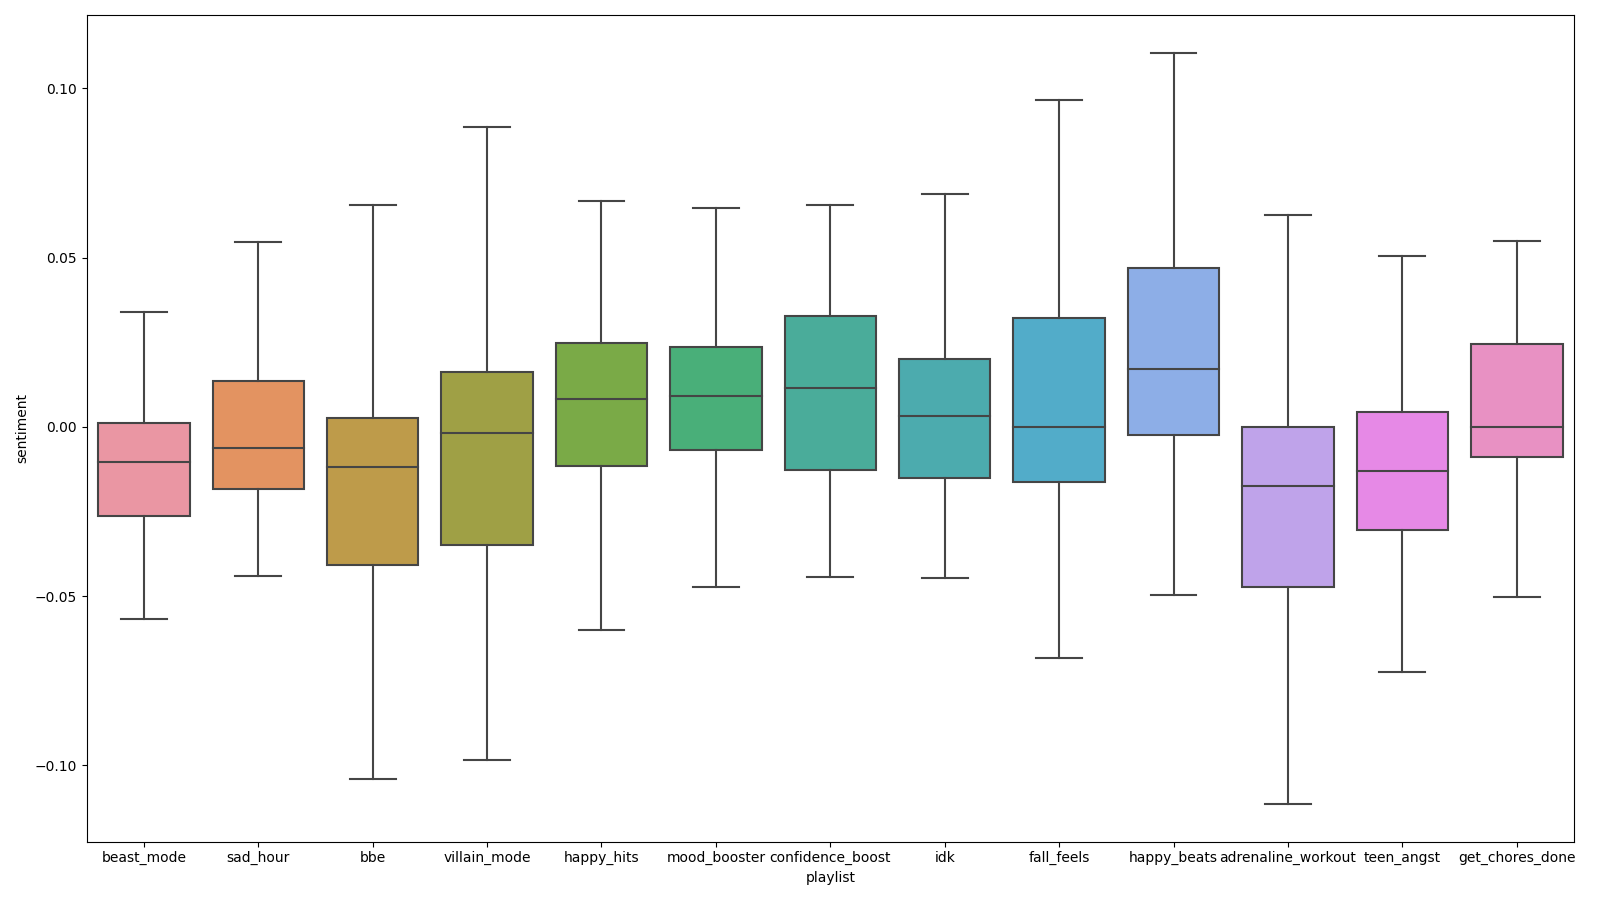
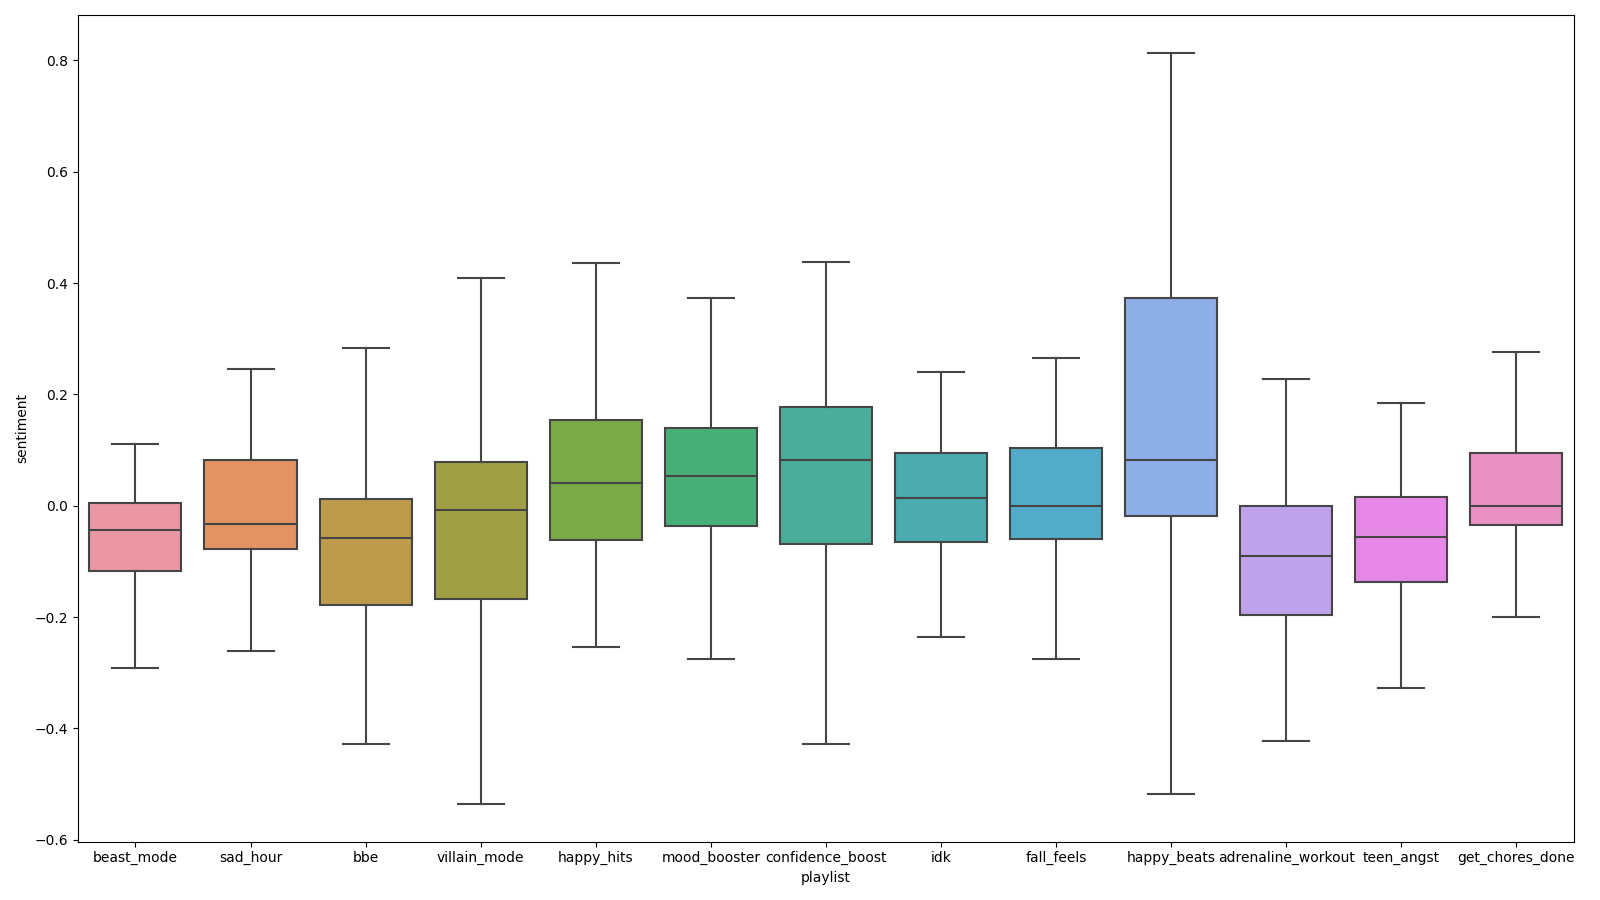
scale sentiment values

diff --git a/744_information_retrieval/proj/lma/dataframe.py b/744_information_retrieval/proj/lma/dataframe.py
@@ -38,7 +38,7 @@ class DataFrame:
     def create_sentiment_ratio_columns(self):
 
         self.df["sentiment"] = self.df.apply(
-            lambda row: (row["positive"] - row["negative"]) / row["n_words"],
+            lambda row: (row["positive"] - row["negative"]) / row["s_n_words"],
             axis=1,
         )
 
